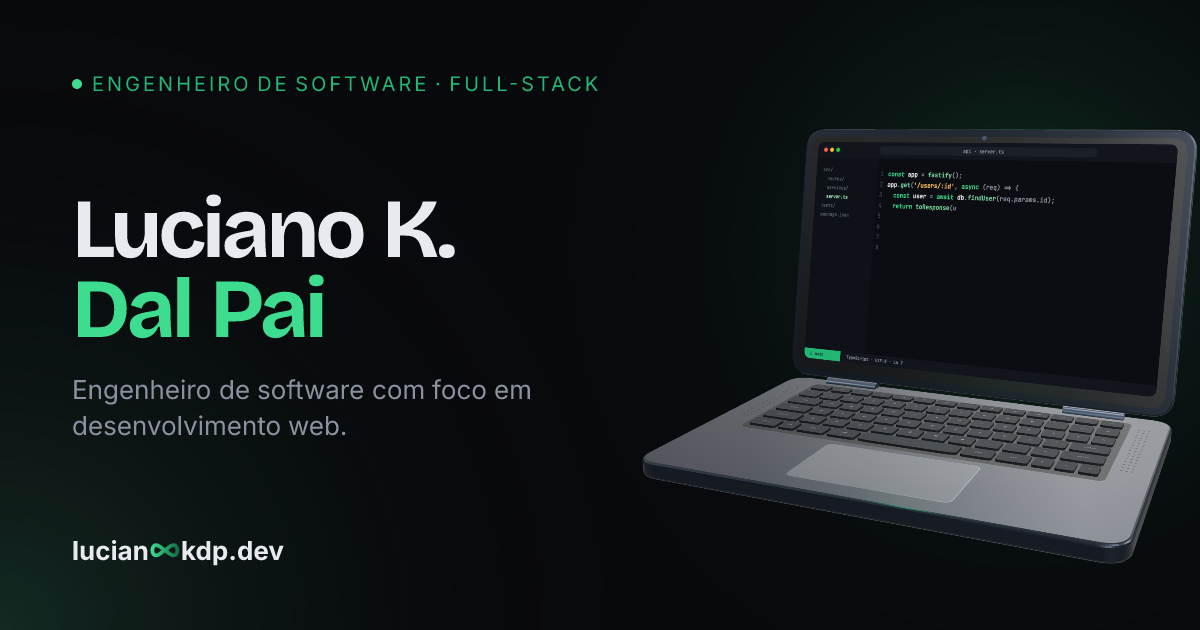
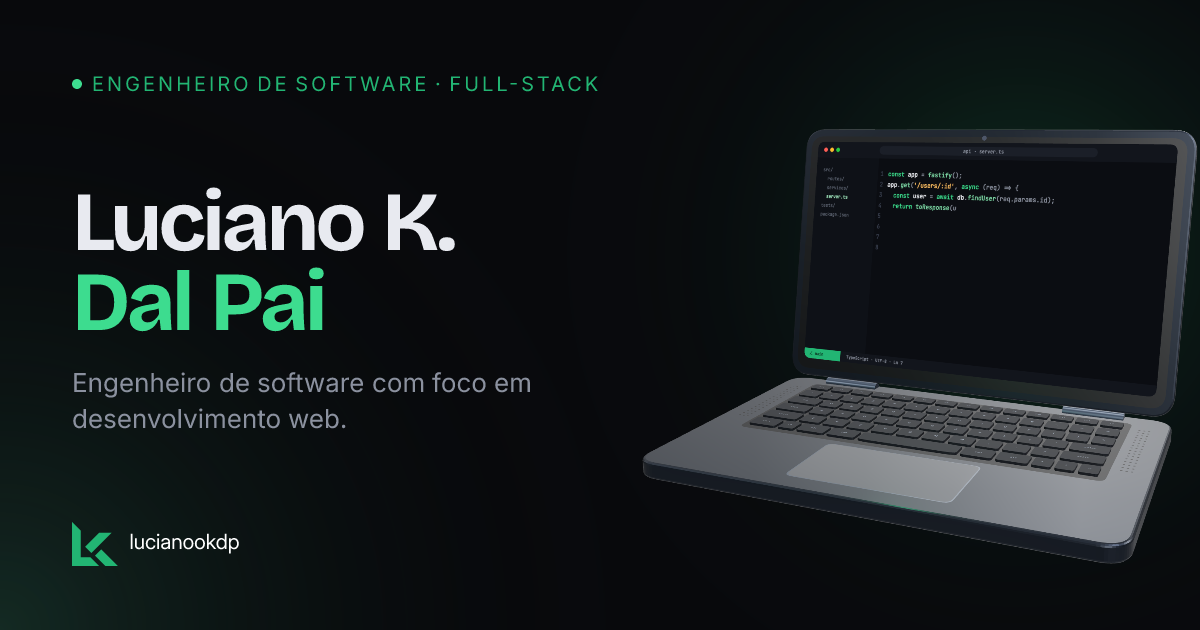
Apply the new lucianookdp brand identity (#16)
Replace the old infinity mark with the official lk symbol and
lucianookdp wordmark from the brand kit, across the whole site:

- Header and footer use a shared Logo component built from the
  kit's master SVG paths (src/data/brand.json), with the theme's
  accent green for the symbol.
- Footer brand block gains the tagline; the watermark now shows the
  official wordmark.
- The 3D laptop draws the new lockup on its screen and the symbol
  on its lid.
- Share images (og.png, og-en.png) show the official lockup.
- Favicons, apple-touch icon and a new 512px icon are the kit's
  official exports; favicon.svg switches green with the color scheme.
  The favicon generator is removed so builds no longer overwrite them.

diff --git a/src/components/hero/LaptopScene.ts b/src/components/hero/LaptopScene.ts
@@ -1,5 +1,6 @@
 import * as THREE from 'three';
 import { RoomEnvironment } from 'three/examples/jsm/environments/RoomEnvironment.js';
+import brand from '../../data/brand.json';
 
 /**
  * Hero 3D scene: a laptop, built procedurally, with a live screen. The screen
@@ -64,6 +65,19 @@ const CODE_LINES: [string, string][][] = [
   [['kw', 'await '], ['id', 'app'], ['op', '.'], ['fn', 'listen'], ['op', '({ port: '], ['num', '3000'], ['op', ' });']],
   [['cm', '// ✓ ready on localhost:3000']]
 ];
+
+// Official brand marks (see src/components/ui/Logo.astro), as canvas paths.
+const SYMBOL_PATHS = brand.symbol.paths.map((d) => new Path2D(d));
+const WORDMARK_PATH = new Path2D(brand.wordmark.path);
+
+/** Fills the lk symbol with its top-left corner at the current origin, `height` px tall. */
+function fillSymbol(ctx: CanvasRenderingContext2D, height: number, color: string) {
+  ctx.save();
+  ctx.scale(height / brand.symbol.height, height / brand.symbol.height);
+  ctx.fillStyle = color;
+  SYMBOL_PATHS.forEach((path) => ctx.fill(path));
+  ctx.restore();
+}
 
 class ScreenPainter {
   readonly canvas: HTMLCanvasElement;
@@ -130,10 +144,16 @@ class ScreenPainter {
     const ctx = this.ctx;
     this.chrome('lucianookdp.dev');
 
-    // Header
+    // Header: the horizontal lockup, 26px tall.
+    const lockupScale = 26 / brand.lockup.height;
+    ctx.save();
+    ctx.translate(48, 70);
+    ctx.scale(lockupScale, lockupScale);
+    fillSymbol(ctx, brand.symbol.height * brand.lockup.symbolScale, this.accent);
+    ctx.translate(brand.lockup.wordmarkX, brand.lockup.wordmarkY);
     ctx.fillStyle = '#e8eaf0';
-    ctx.font = '600 18px "Inter Variable", system-ui, sans-serif';
-    ctx.fillText('lucian∞kdp', 48, 88);
+    ctx.fill(WORDMARK_PATH);
+    ctx.restore();
     ctx.fillStyle = '#8b919f';
     ctx.font = '14px "Inter Variable", system-ui, sans-serif';
     ['About', 'Projects', 'Services', 'Contact'].forEach((label, i) => ctx.fillText(label, 560 + i * 92, 88));
@@ -512,23 +532,22 @@ export function createLaptopScene(container: HTMLElement, canvas: HTMLCanvasElem
   camDot.position.set(0, LID_H - 0.06, 0.031);
   lid.add(camDot);
 
-  // The same infinity mark as the header, printed on the outside of the lid.
+  // The brand symbol, printed on the outside of the lid.
+  const LOGO_H = 0.34;
   const logoCanvas = document.createElement('canvas');
   logoCanvas.width = 512;
-  logoCanvas.height = 256;
-  const logoContext = logoCanvas.getContext('2d')!;
-  logoContext.scale(5.12, 5.12);
-  logoContext.strokeStyle = '#fff';
-  logoContext.lineWidth = 11;
-  logoContext.lineCap = 'round';
-  logoContext.stroke(new Path2D('M25 10C10 10 10 40 25 40C35 40 40 30 50 25C60 20 65 10 75 10C90 10 90 40 75 40C65 40 60 30 50 25C40 20 35 10 25 10Z'));
+  logoCanvas.height = Math.round(512 * brand.symbol.height / brand.symbol.width);
+  fillSymbol(logoCanvas.getContext('2d')!, logoCanvas.height, '#fff');
   const logoTexture = track(new THREE.CanvasTexture(logoCanvas));
   logoTexture.colorSpace = THREE.SRGBColorSpace;
   logoTexture.anisotropy = Math.min(4, renderer.capabilities.getMaxAnisotropy());
   const logoMaterial = track(new THREE.MeshBasicMaterial({
     map: logoTexture, color: 0x22b573, transparent: true, toneMapped: false, depthWrite: false
   }));
-  const logo = new THREE.Mesh(track(new THREE.PlaneGeometry(0.62, 0.31)), logoMaterial);
+  const logo = new THREE.Mesh(
+    track(new THREE.PlaneGeometry(LOGO_H * brand.symbol.width / brand.symbol.height, LOGO_H)),
+    logoMaterial
+  );
   logo.position.set(0, LID_H / 2, -LID_T - 0.018);
   logo.rotation.y = Math.PI;
   lid.add(logo);

diff --git a/README.md b/README.md
@@ -17,8 +17,12 @@ npm run dev
 
 - fetches the GitHub data (needs `GITHUB_TOKEN` in the environment; without it,
   falls back to the cache in `src/data/github-stats.json`);
-- generates the favicons from `public/favicon.svg`;
-- generates the sharing images (`og.png` and `og-en.png`).
+- generates the sharing images (`og.png` and `og-en.png`) with the brand lockup.
+
+The icons in `public/` (`favicon.ico`, `favicon-48.png`, `apple-touch-icon.png`,
+`icon-512.png`) are the official exports from the lucianookdp brand kit, and
+`src/data/brand.json` holds its symbol and name paths verbatim. Replace them
+from the kit instead of redrawing.
 
 ## Structure
 
@@ -27,10 +31,10 @@ src/
   components/hero/        the 3D laptop (LaptopScene.ts) and the hero
   components/sections/    about, projects, services, stack and contact
   components/islands/     React components (theme, language, ⌘K, e-mail)
-  data/                   projects, stack and the GitHub cache
+  data/                   projects, stack, brand marks and the GitHub cache
   i18n/                   copy in pt and en
   lib/                    smooth scroll, animations and utilities
-scripts/                  icon, OG image and stats generation
+scripts/                  OG image and stats generation
 ```
 
 The copy lives in `src/i18n/*.json` and the projects in
